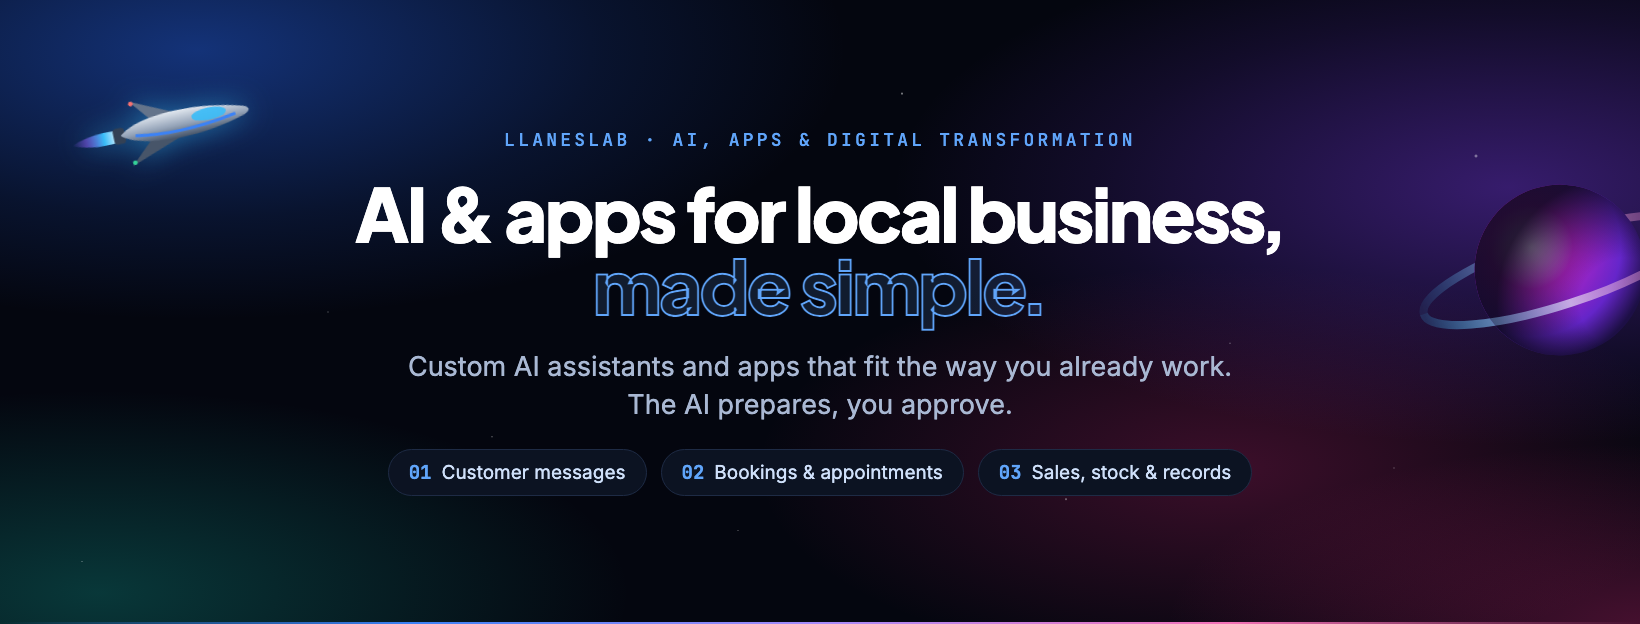
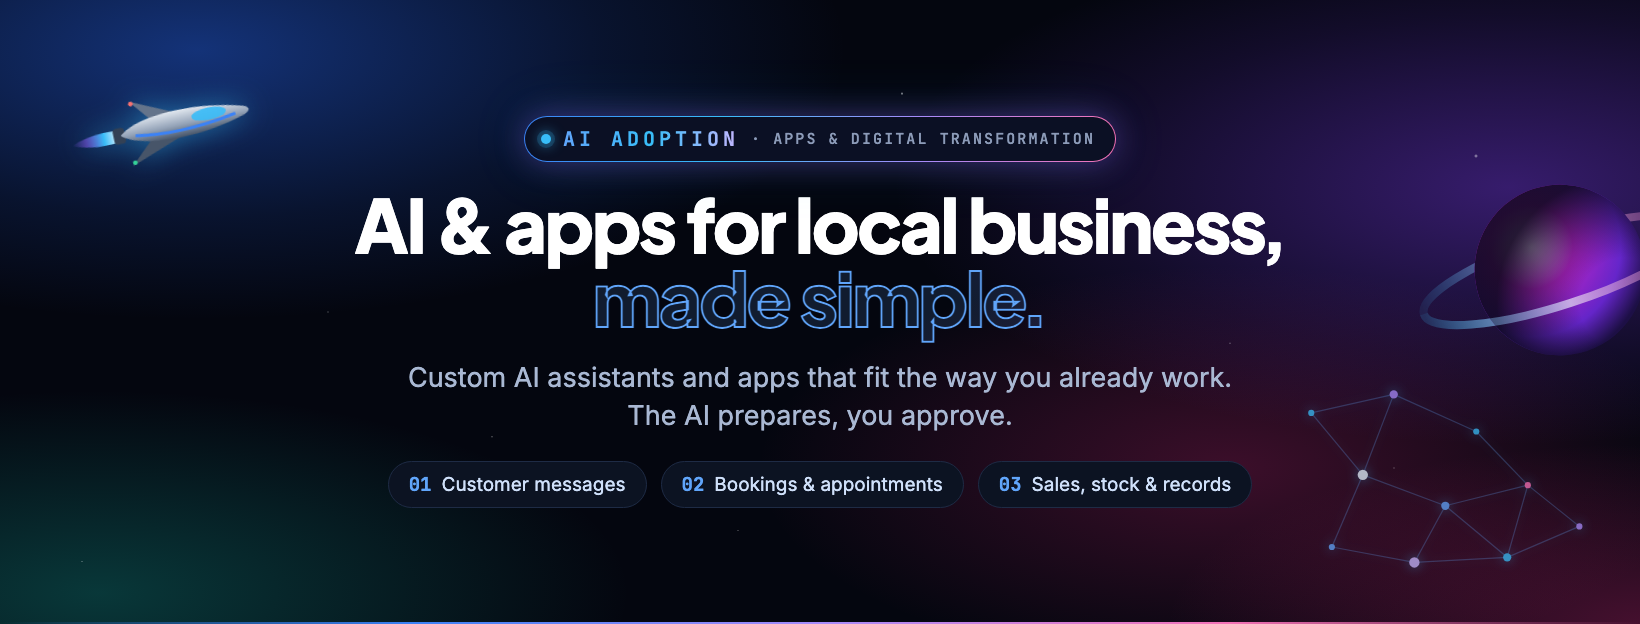
Facebook cover: highlight AI adoption; plain-text welcome caption
- Cover: glowing "AI adoption" pill above the headline and a faint
  AI network motif in the lower-right corner
- PAGE-KIT.md: welcome post caption as plain text (Facebook has no bold),
  with an AI adoption line, worldwide & remote line and #AIAdoption

diff --git a/facebook/src/cover.html b/facebook/src/cover.html
@@ -7,6 +7,12 @@ h1{font-size:84px}
 .chip{font-size:19px;color:#CFE0FA}
 .chip b{color:#60A5FA;font-family:'JetBrains Mono'}
 .glow{position:absolute;left:0;right:0;bottom:0;height:2px;background:linear-gradient(90deg,transparent,#3B82F6,#A78BFA,#F472B6,transparent)}
+.aipill{display:inline-flex;align-items:center;gap:12px;padding:9px 20px 9px 16px;border-radius:999px;position:relative;
+ background:linear-gradient(#0B1024,#0B1024) padding-box,linear-gradient(90deg,#3B82F6,#38BDF8,#A78BFA,#F472B6) border-box;border:1.5px solid transparent;
+ box-shadow:0 0 30px rgba(139,92,246,.35),0 0 60px rgba(56,189,248,.15)}
+.aidot{width:10px;height:10px;border-radius:50%;background:#38BDF8;box-shadow:0 0 0 4px rgba(56,189,248,.18),0 0 14px #38BDF8}
+.aitxt{font-family:'JetBrains Mono';font-weight:700;font-size:20px;letter-spacing:.2em;text-transform:uppercase;background:linear-gradient(90deg,#60A5FA,#38BDF8,#C4B5FD);-webkit-background-clip:text;color:transparent}
+.aisub{font-family:'JetBrains Mono';font-size:15px;letter-spacing:.14em;text-transform:uppercase;color:#8C9BB8}
 </style></head><body><div class="canvas"><div class="stars"></div><svg style="position:absolute;right:-70px;top:120px;width:300px;opacity:.9" viewBox="0 0 260 260"><defs>
 <radialGradient id="b" cx="38%" cy="32%" r="70%"><stop offset="0" stop-color="#F5D0FE"/><stop offset=".35" stop-color="#C026D3"/><stop offset=".75" stop-color="#6D28D9"/><stop offset="1" stop-color="#1E1048"/></radialGradient>
 <radialGradient id="sd" cx="80%" cy="80%" r="75%"><stop offset=".35" stop-color="#04060F" stop-opacity="0"/><stop offset="1" stop-color="#04060F" stop-opacity=".85"/></radialGradient>
@@ -18,8 +24,9 @@ h1{font-size:84px}
 <path d="M0 25 Q14 19 32 21 L32 29 Q14 31 0 25Z" fill="url(#f)"/><path d="M56 18 L44 3 L72 16Z" fill="#64748B"/><path d="M54 32 L38 47 L74 34Z" fill="#475569"/><rect x="29" y="19.5" width="8" height="11" rx="2.5" fill="#334155"/>
 <path d="M34 25 C46 14 86 12 120 22 Q127 25 120 28 C86 38 46 36 34 25Z" fill="url(#h)"/><path d="M44 27 C66 31 92 30 114 26" stroke="#3B82F6" stroke-width="2" fill="none"/>
 <ellipse cx="96" cy="22.5" rx="12" ry="4.2" fill="#38BDF8" opacity=".9"/><circle cx="45" cy="5" r="1.6" fill="#F87171"/><circle cx="40" cy="45" r="1.6" fill="#34D399"/></svg>
+<svg style="position:absolute;right:40px;bottom:36px;width:330px;opacity:.75;filter:drop-shadow(0 0 6px rgba(56,189,248,.6))" viewBox="0 0 320 200"><g stroke="#60A5FA" stroke-opacity=".35" stroke-width="1.2"><line x1="40" y1="30" x2="120" y2="12"/><line x1="120" y1="12" x2="200" y2="48"/><line x1="40" y1="30" x2="90" y2="90"/><line x1="90" y1="90" x2="170" y2="120"/><line x1="200" y1="48" x2="250" y2="100"/><line x1="170" y1="120" x2="250" y2="100"/><line x1="90" y1="90" x2="60" y2="160"/><line x1="60" y1="160" x2="140" y2="175"/><line x1="170" y1="120" x2="140" y2="175"/><line x1="140" y1="175" x2="230" y2="170"/><line x1="250" y1="100" x2="230" y2="170"/><line x1="230" y1="170" x2="300" y2="140"/><line x1="250" y1="100" x2="300" y2="140"/><line x1="120" y1="12" x2="90" y2="90"/><line x1="170" y1="120" x2="230" y2="170"/></g><circle cx="40" cy="30" r="3" fill="#38BDF8"/><circle cx="120" cy="12" r="4" fill="#A78BFA"/><circle cx="200" cy="48" r="3" fill="#38BDF8"/><circle cx="90" cy="90" r="5" fill="#E0F2FE"/><circle cx="170" cy="120" r="4" fill="#60A5FA"/><circle cx="250" cy="100" r="3" fill="#F472B6"/><circle cx="60" cy="160" r="3" fill="#60A5FA"/><circle cx="140" cy="175" r="5" fill="#C4B5FD"/><circle cx="230" cy="170" r="4" fill="#38BDF8"/><circle cx="300" cy="140" r="3" fill="#A78BFA"/></svg>
 <div class="wrap">
- <div class="mono" style="font-size:18px;color:#60A5FA">LlanesLab · AI, apps &amp; digital transformation</div>
+ <div class="aipill"><span class="aidot"></span><span class="aitxt">AI adoption</span><span class="aisub">· apps &amp; digital transformation</span></div>
  <h1 class="display" style="font-size:74px;white-space:nowrap">AI &amp; apps for local business<span class="p">,</span><br><span class="outline">made simple<span class="p">.</span></span></h1>
  <div class="sub">Custom AI assistants and apps that fit the way you already work.<br>The AI prepares, you approve.</div>
  <div class="row"><span class="chip"><b>01</b> Customer messages</span><span class="chip"><b>02</b> Bookings &amp; appointments</span><span class="chip"><b>03</b> Sales, stock &amp; records</span></div>

diff --git a/facebook/PAGE-KIT.md b/facebook/PAGE-KIT.md
@@ -93,25 +93,27 @@ The cover keeps all text in the centre 60%. Facebook crops the sides on mobile, 
 
 ## 3. Pinned post (post first, then pin it)
 
-Image: `post-1-welcome.png`
+Image: `post-1-welcome.png`. Facebook doesn't render **bold**, so the caption is plain text.
 
 > 👋 Welcome to LlanesLab.
 >
 > Most small businesses don't need a big IT project. They need one tool that gives them back a few hours every week.
 >
-> That's what I build: custom AI assistants and simple apps that fit the way you already work.
+> That's what I build: custom AI assistants and simple apps that fit the way you already work. I help local businesses adopt AI and go digital, one small, useful step at a time.
 >
-> 💬 **Customer messages:** answer the same questions 24/7, and approve anything important
-> 📅 **Bookings & appointments:** one calendar, automatic reminders, no double bookings
-> 📦 **Sales, stock & records:** log by voice, see clean daily reports
+> 💬 Customer messages: answer the same questions 24/7, and approve anything important
+> 📅 Bookings & appointments: one calendar, automatic reminders, no double bookings
+> 📦 Sales, stock & records: log by voice, see clean daily reports
 >
 > Whether you run a shop, café, salon, rental or clinic, it starts with one small, useful tool.
 >
-> My one rule: **the AI prepares, you decide.** Nothing is sent or saved until you approve it.
+> My one rule: the AI prepares, you decide. Nothing is sent or saved until you approve it.
 >
 > I'm Dan, and I build every project myself. Message me for a free consultation (no cost, no obligation), or visit danmarcllanes.vercel.app
 >
-> #AIforSmallBusiness #DigitalTransformation #SmallBusiness #LlanesLab
+> 🌍 Based in Taguig City, Philippines. Available worldwide & remote.
+>
+> #AIAdoption #AIforSmallBusiness #DigitalTransformation #SmallBusiness #LlanesLab
 
 ---
 
